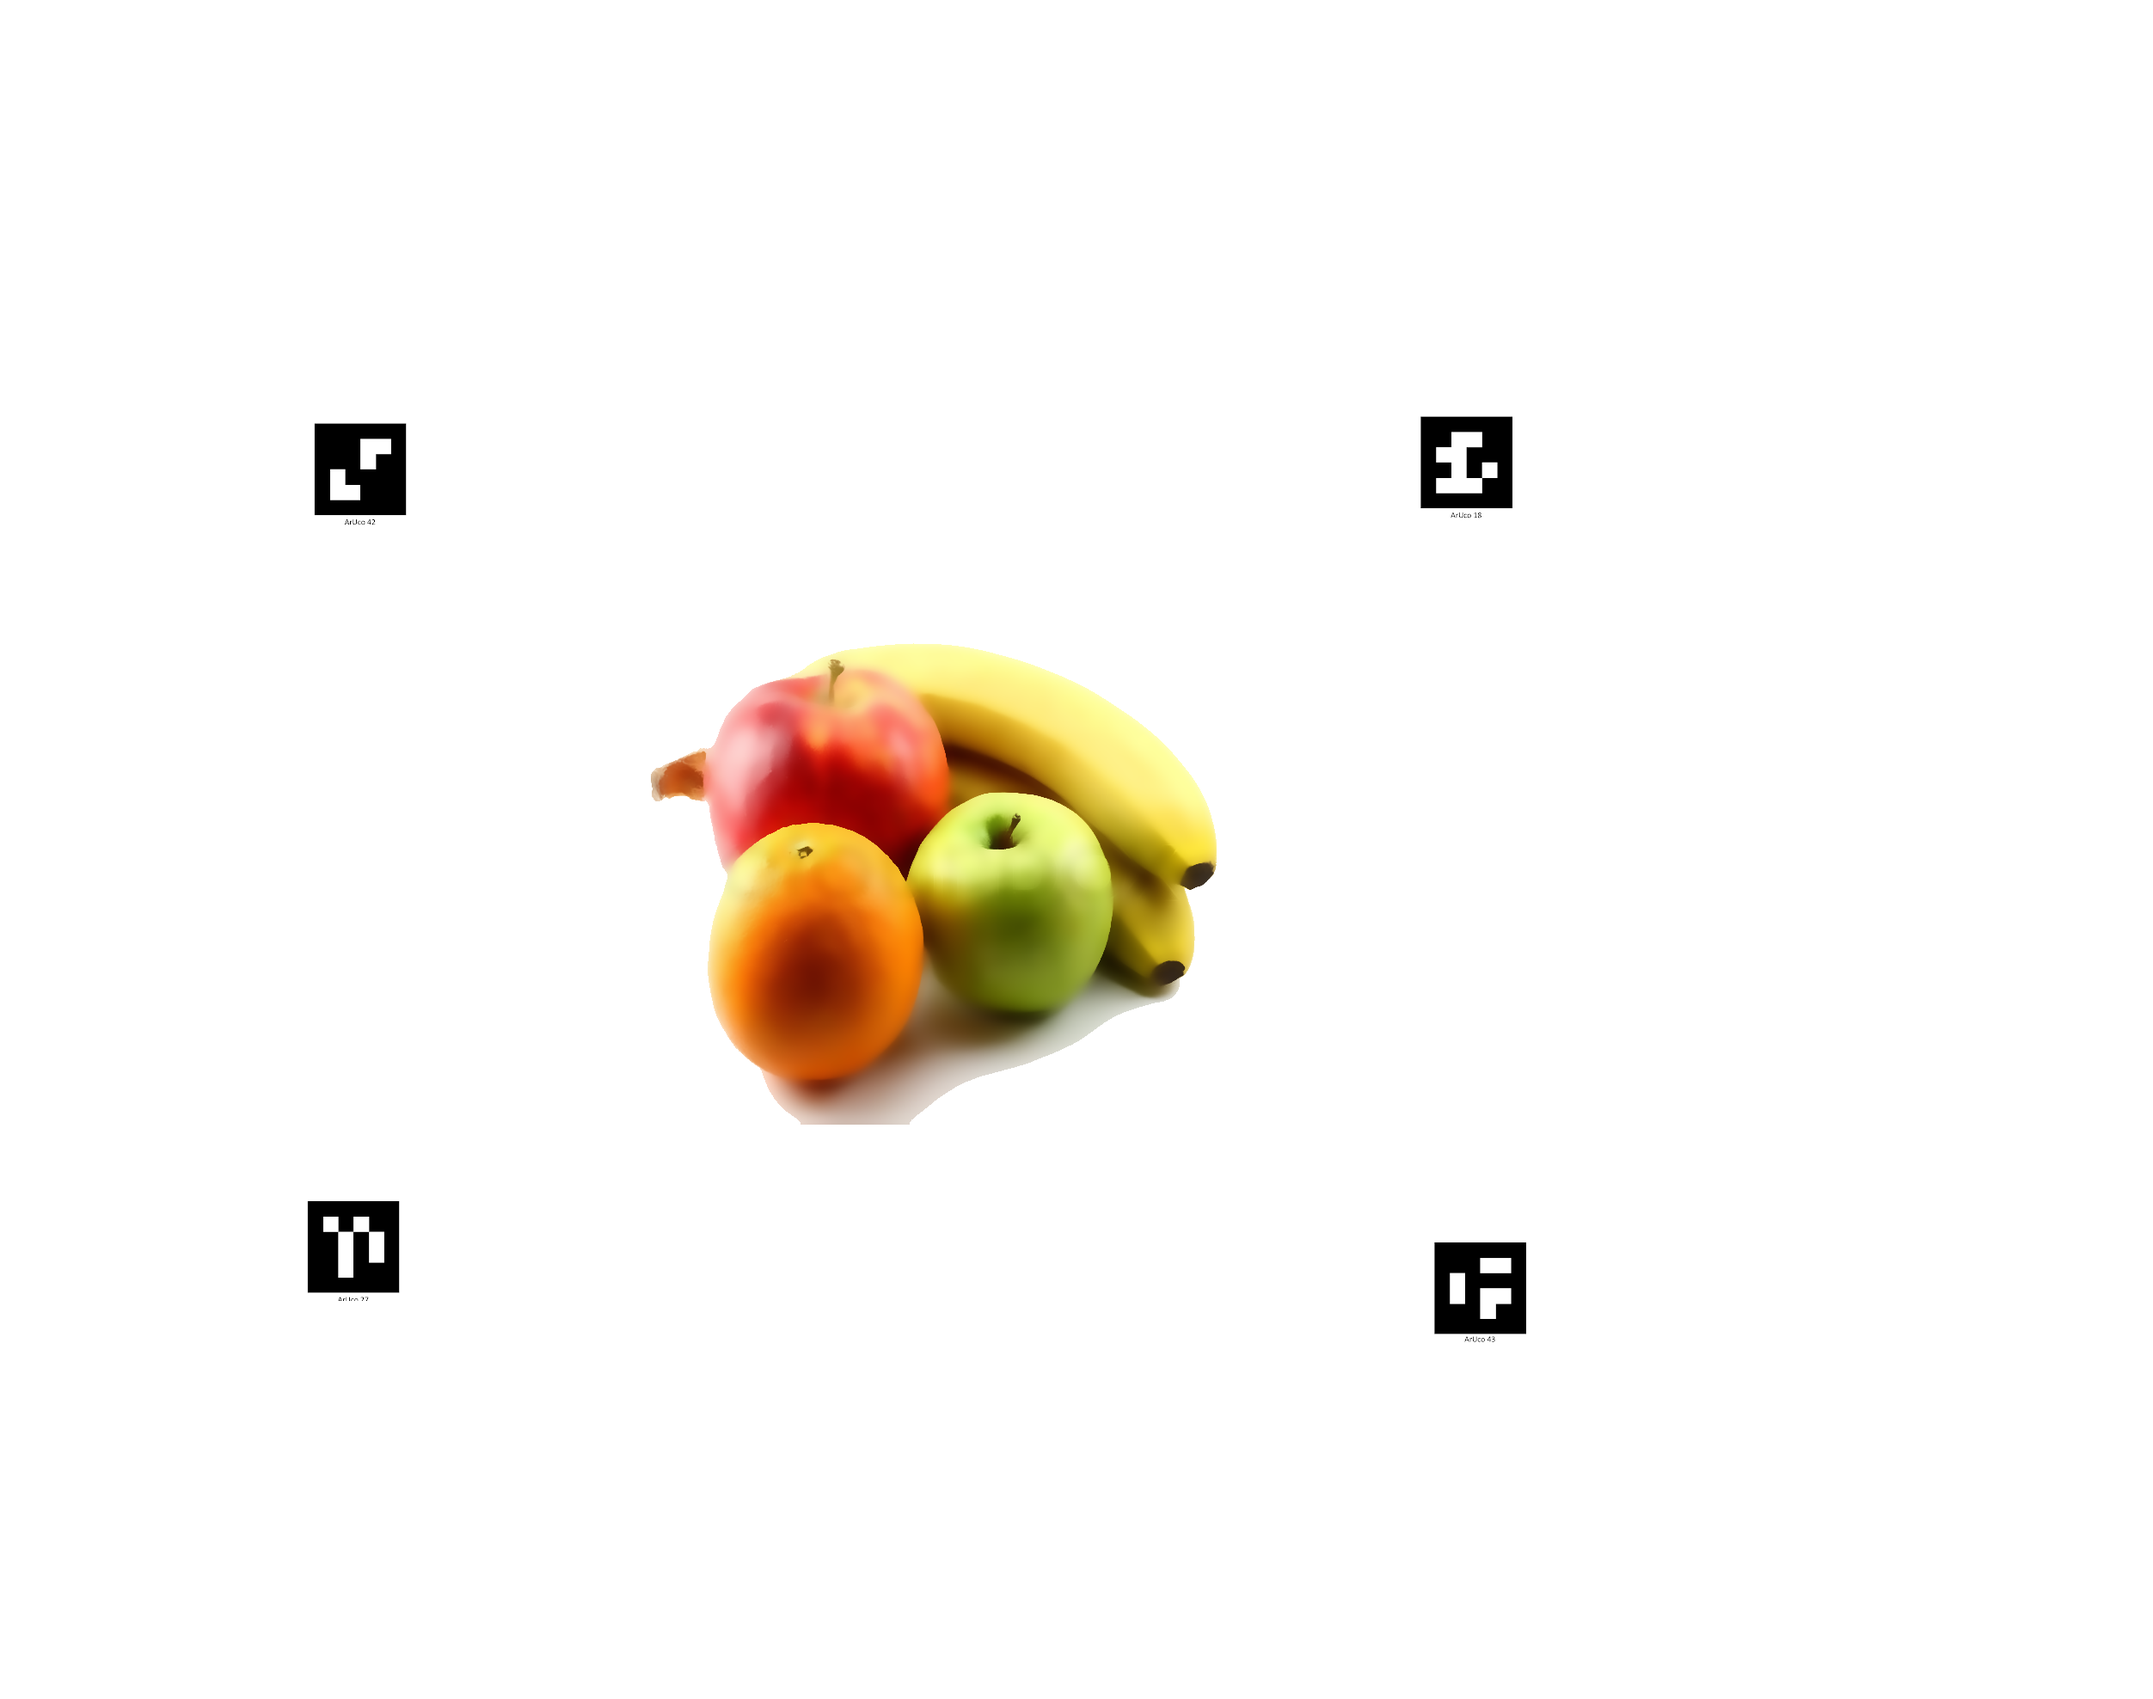
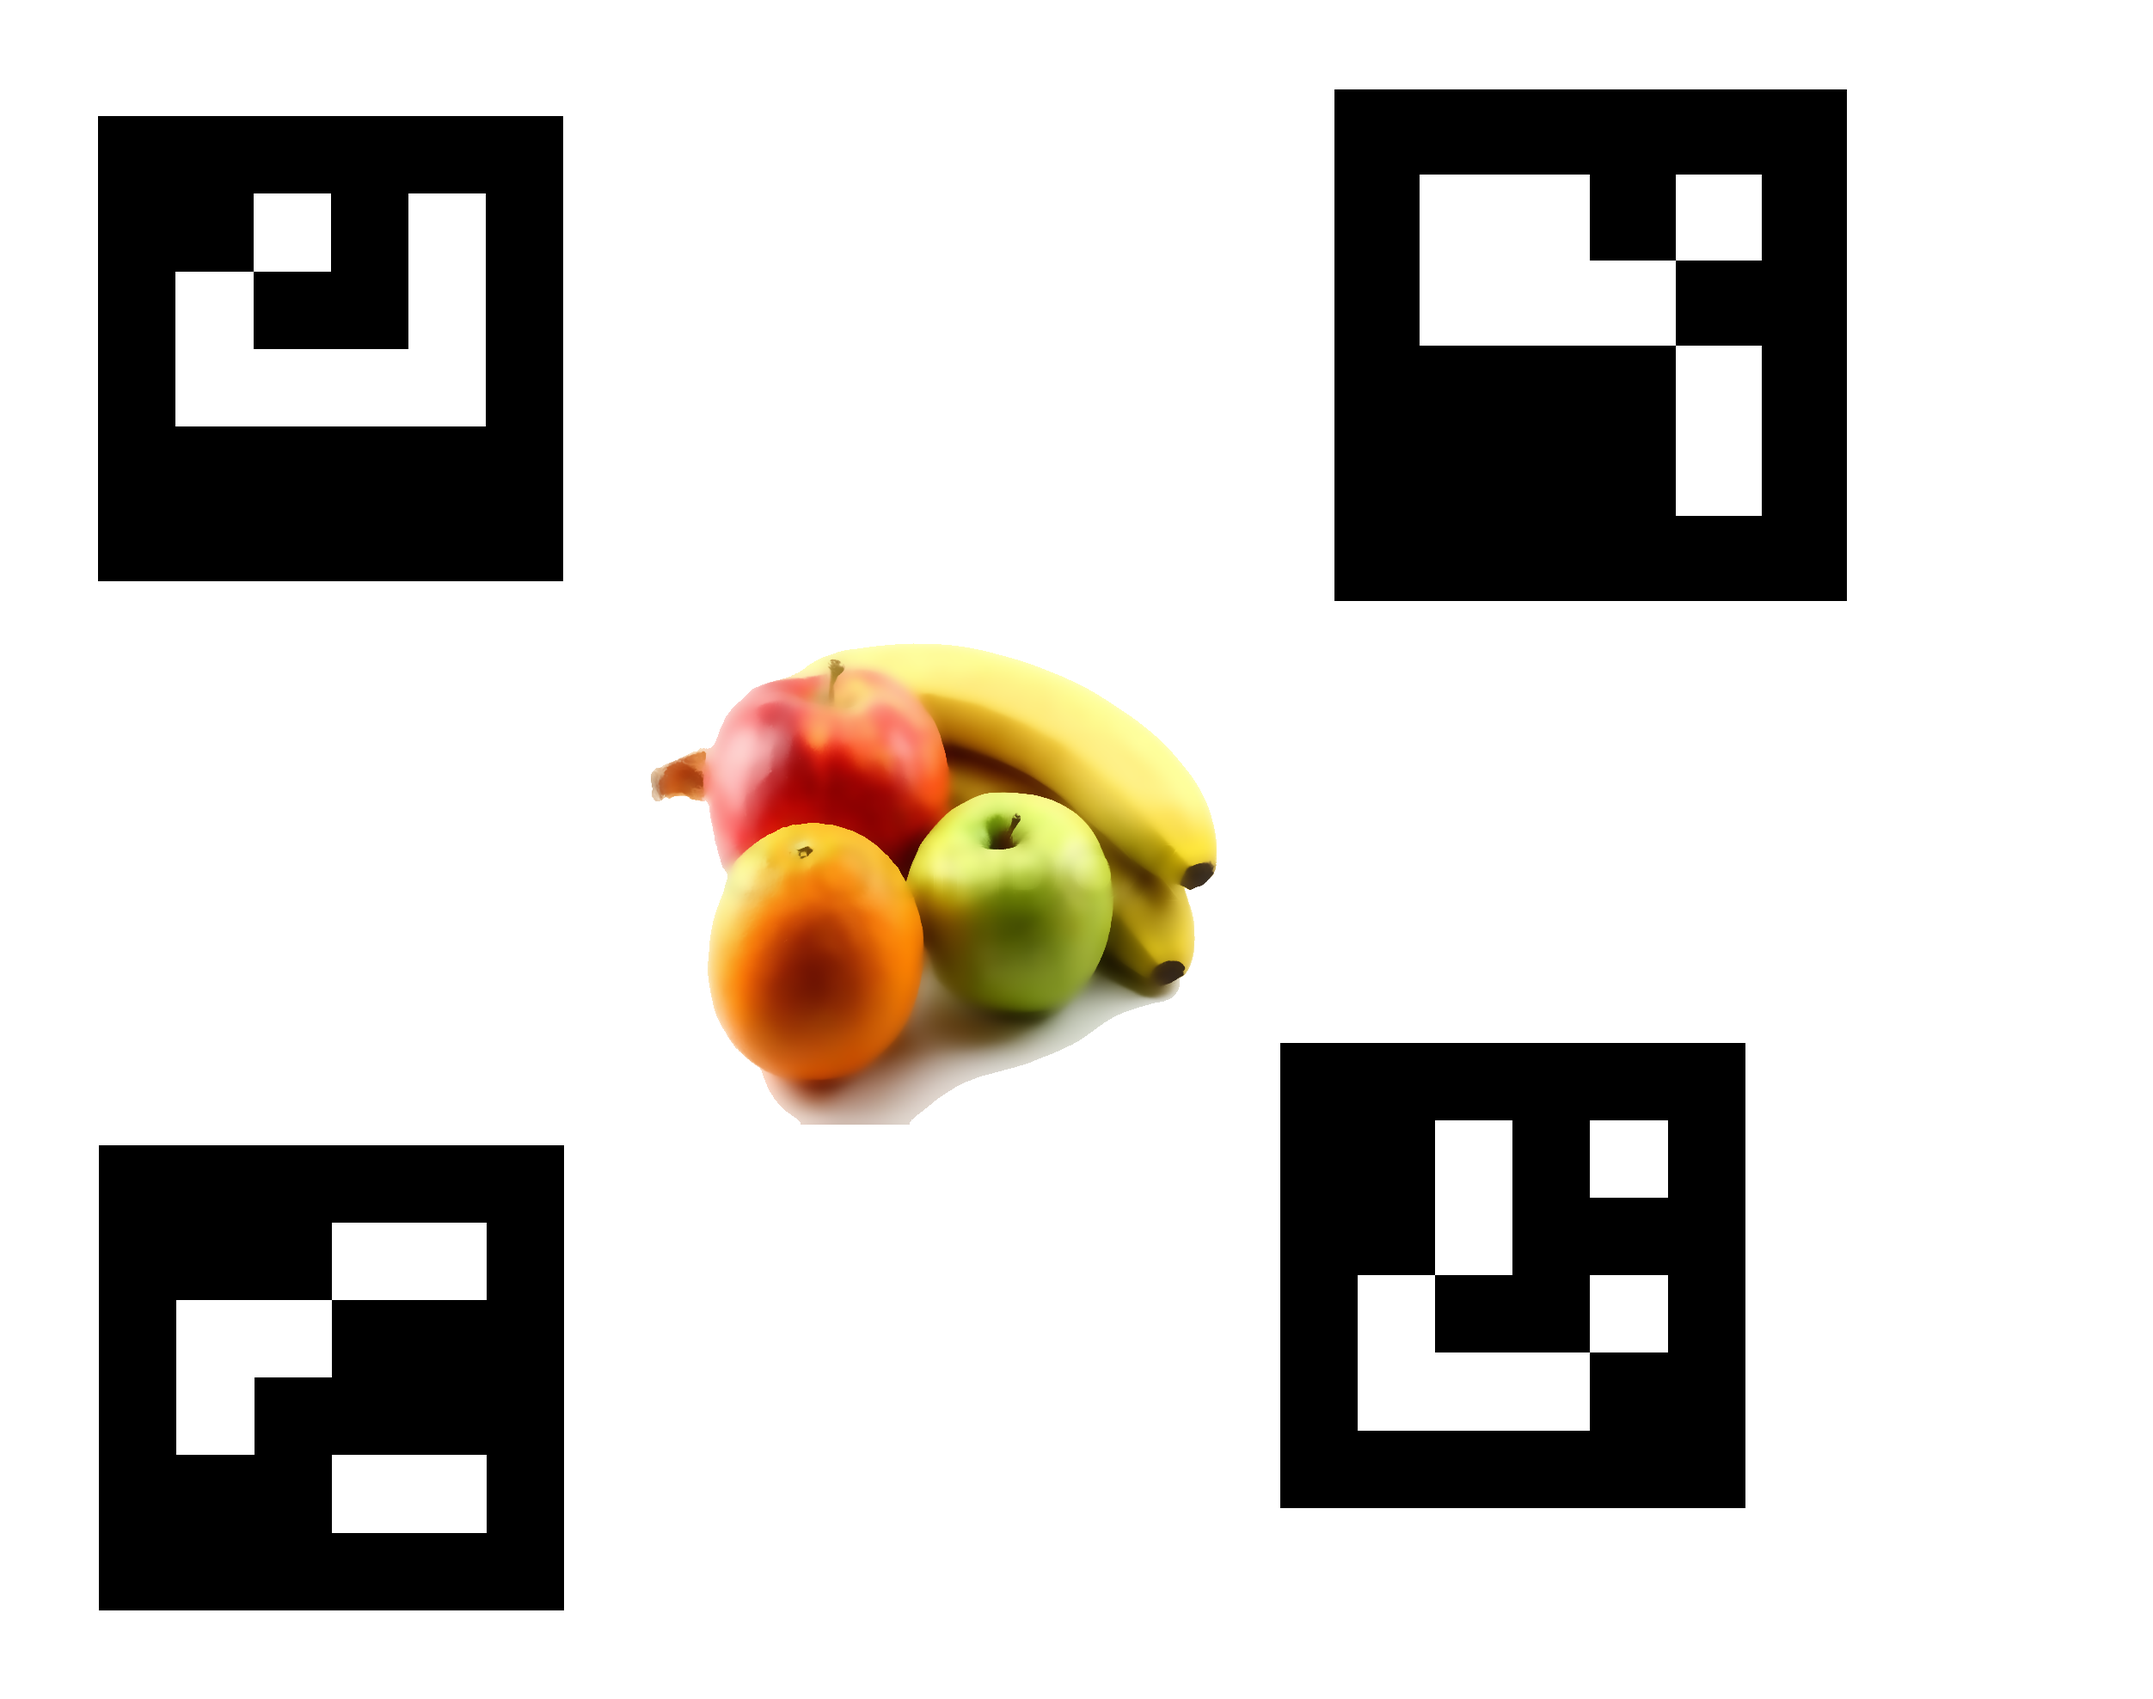
Detect and crop/scale to square

diff --git a/src/common/OpenCVTools.java b/src/common/OpenCVTools.java
@@ -15,9 +15,12 @@ import org.opencv.aruco.Dictionary;
 import org.opencv.core.Core;
 import org.opencv.core.CvType;
 import org.opencv.core.Mat;
+import org.opencv.core.Point;
+import org.opencv.core.Rect;
 import org.opencv.core.Size;
 import org.opencv.core.TermCriteria;
 import org.opencv.imgproc.Imgproc;
+import org.opencv.utils.Converters;
 
 import processing.core.PApplet;
 import processing.core.PImage;
@@ -197,4 +200,43 @@ public class OpenCVTools {
 
 		return getSnapshot(imageCopy);
 	}
+
+	public static PImage detectArucoAndCrop(PImage inputFrame) {
+		Mat image = toMap(inputFrame);
+		Dictionary dictionary = Aruco.getPredefinedDictionary(Aruco.DICT_4X4_50);
+		Mat imageCopy = new Mat();
+		image.copyTo(imageCopy);
+		Mat ids = new Mat();
+		List<Mat> corners = new ArrayList<>();
+
+		Aruco.detectMarkers(image, dictionary, corners, ids);
+		List<Point> cropCorners = new ArrayList<>();
+		if (corners.size() > 0) {
+			Aruco.drawDetectedMarkers(imageCopy, corners);
+		}
+
+		cropCorners.add(new Point(corners.get(2).get(0, 0)));
+		cropCorners.add(new Point(corners.get(3).get(0, 0)));
+		cropCorners.add(new Point(corners.get(0).get(0, 0)));
+		cropCorners.add(new Point(corners.get(1).get(0, 0)));
+
+		System.out.println("Corners: " + cropCorners);
+
+		List<Point> target = new ArrayList<>();
+		target.add(new Point(0, 0));
+		target.add(new Point(900, 0));
+		target.add(new Point(0, 900));
+		target.add(new Point(900, 900));
+
+		System.out.println("Target: " + target);
+
+		Mat trans = Imgproc.getPerspectiveTransform(Converters.vector_Point2f_to_Mat(cropCorners), Converters.vector_Point2f_to_Mat(target));
+		Imgproc.warpPerspective(image, imageCopy, trans, imageCopy.size());
+
+		Rect rectCrop = new Rect(0, 0, 900, 900);
+		imageCopy = new Mat(imageCopy, rectCrop);
+
+		return getSnapshot(imageCopy);
+	}
+
 }

diff --git a/src/ArucoMarkers.java b/src/ArucoMarkers.java
@@ -8,6 +8,7 @@ import processing.core.PImage;
 
 public class ArucoMarkers extends PApplet {
 	private PImage imageWinOriginal;
+	private PImage imageWinOutput;
 
 	public static void main(String[] args) {
 		PApplet.main("ArucoMarkers");
@@ -25,8 +26,8 @@ public class ArucoMarkers extends PApplet {
 	public void draw() {
 		background(100);
 
-		if (imageWinOriginal != null)
-			image(imageWinOriginal, 0, 0, 800, 800);
+		if (imageWinOutput != null)
+			image(imageWinOutput, 0, 0, 800, 800);
 	}
 
 	// This is a callback from file select window
@@ -37,13 +38,20 @@ public class ArucoMarkers extends PApplet {
 			System.out.println("User selected " + selected.getAbsolutePath());
 			PImage newImage = loadImage(selected.getAbsolutePath());
 			setOriginal(newImage);
-			newImage = OpenCVTools.detectAruco(newImage);
-			setOriginal(newImage);
+			setOutput(newImage);
 		}
 	}
 
 	public void setOriginal(PImage img) {
 		imageWinOriginal = img.copy();
+	}
+
+	public void setOutput(PImage img) {
+		imageWinOutput = img.copy();
+	}
+
+	public PImage getOriginal() {
+		return imageWinOriginal;
 	}
 
 	public void keyPressed() {
@@ -52,6 +60,11 @@ public class ArucoMarkers extends PApplet {
 		if (key == ' ') {
 			selectInput("Select a file to process:", "menuView_imageSelected");
 		} else if (key == '1') {
+			PImage newImage = OpenCVTools.detectAruco(getOriginal());
+			setOutput(newImage);
+		} else if (key == '2') {
+			PImage newImage = OpenCVTools.detectArucoAndCrop(getOriginal());
+			setOutput(newImage);
 		} else if (key == 'q') { // lab
 		} else if (keyCode == UP) {
 		} else if (keyCode == DOWN) {
